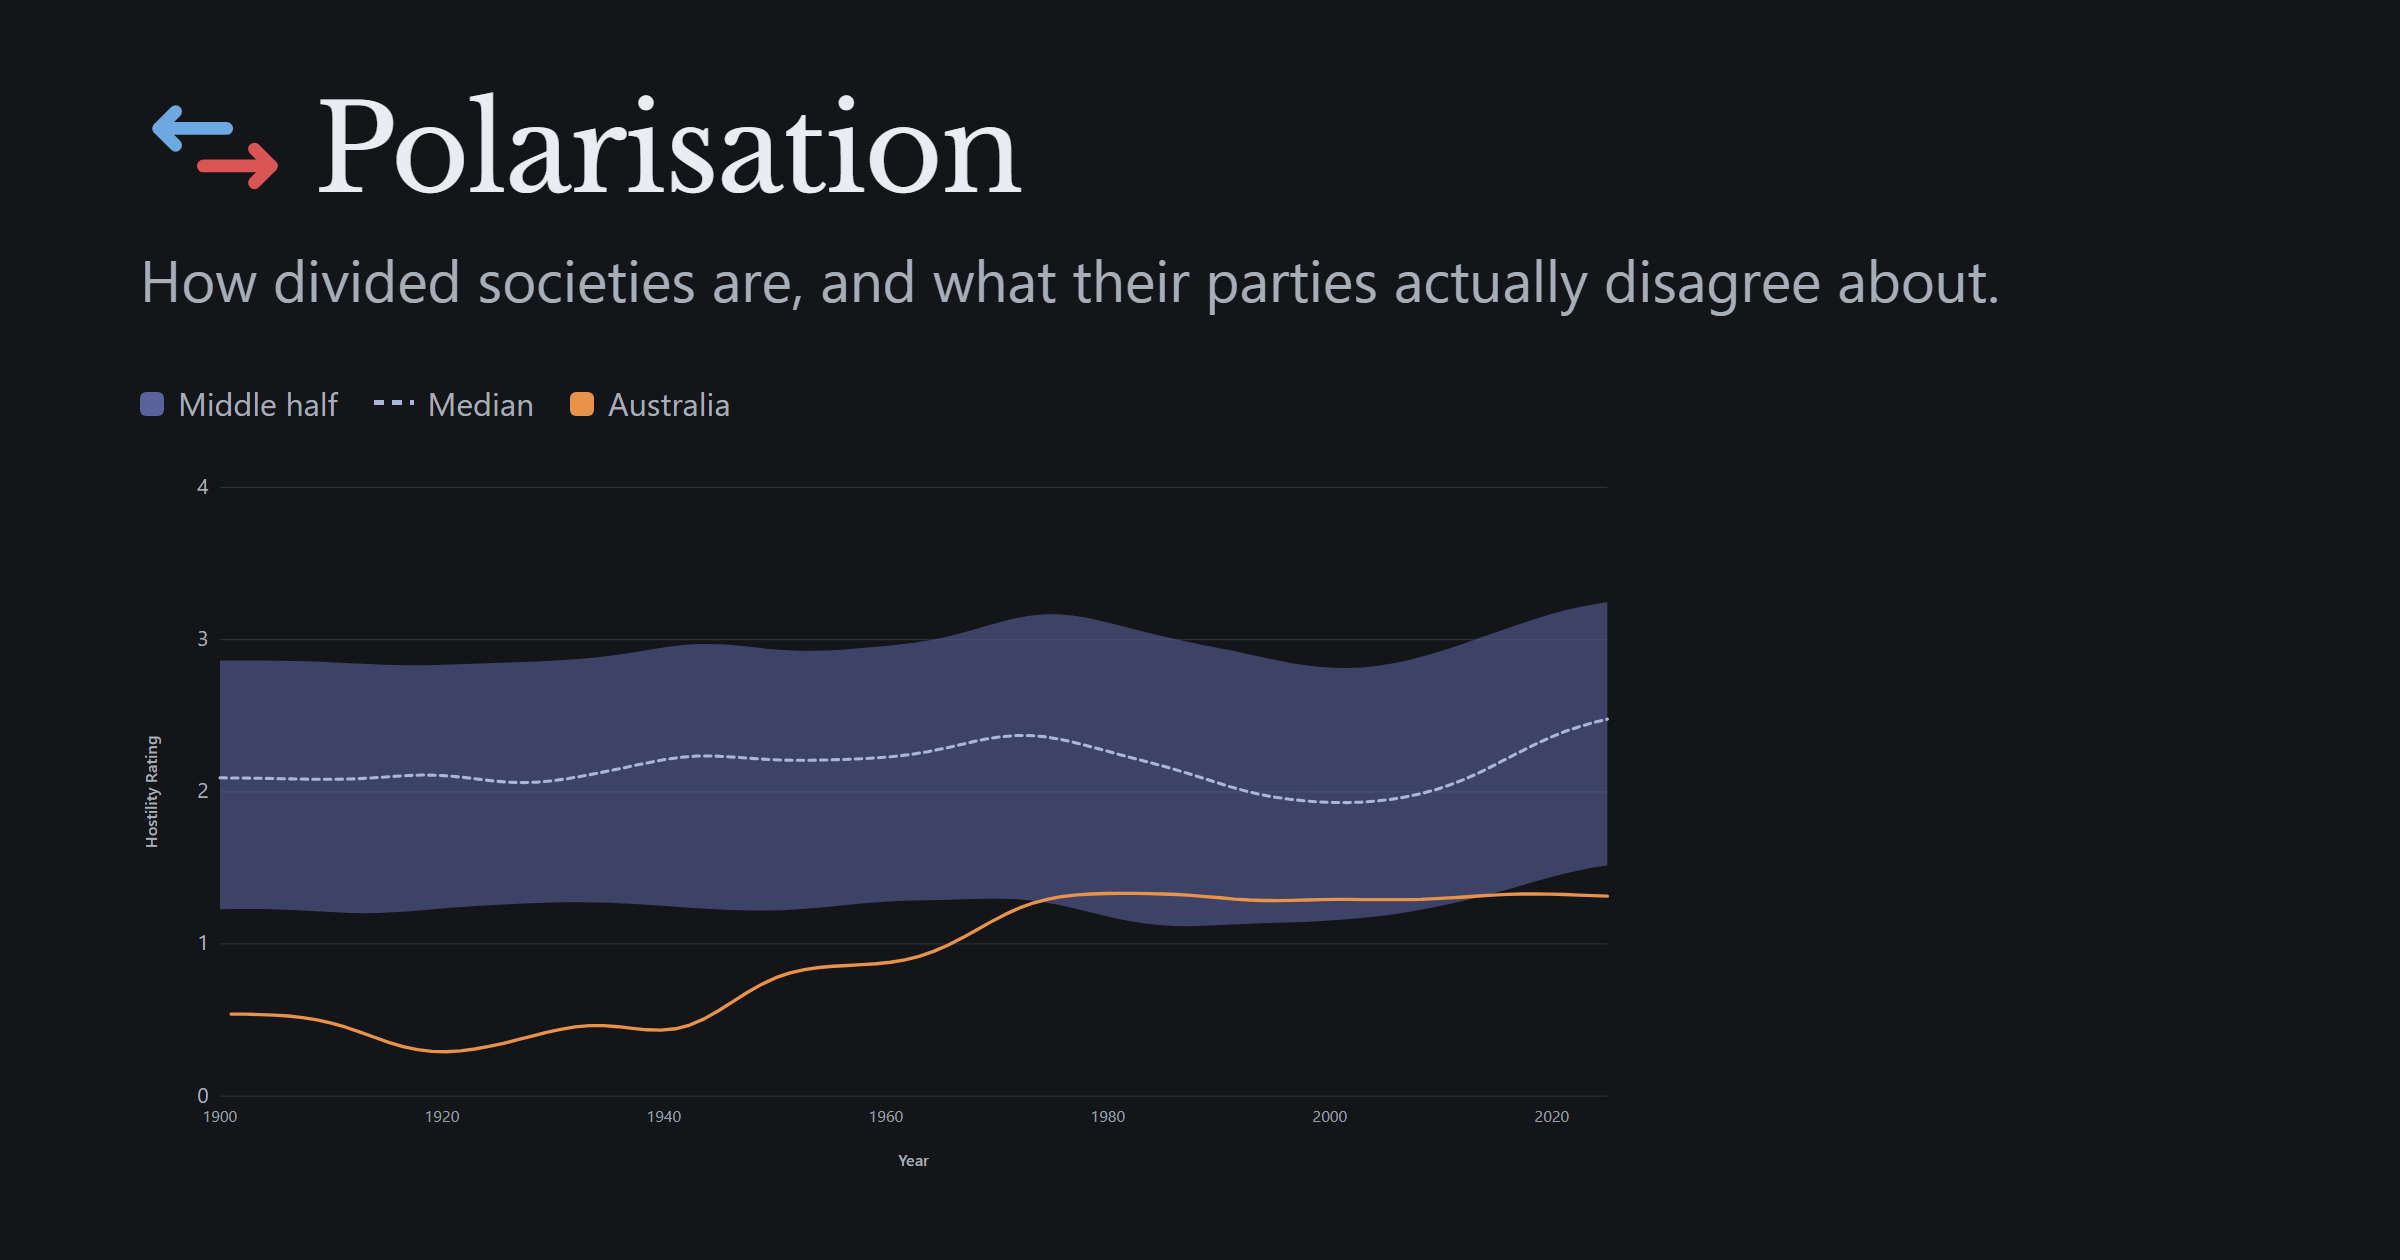
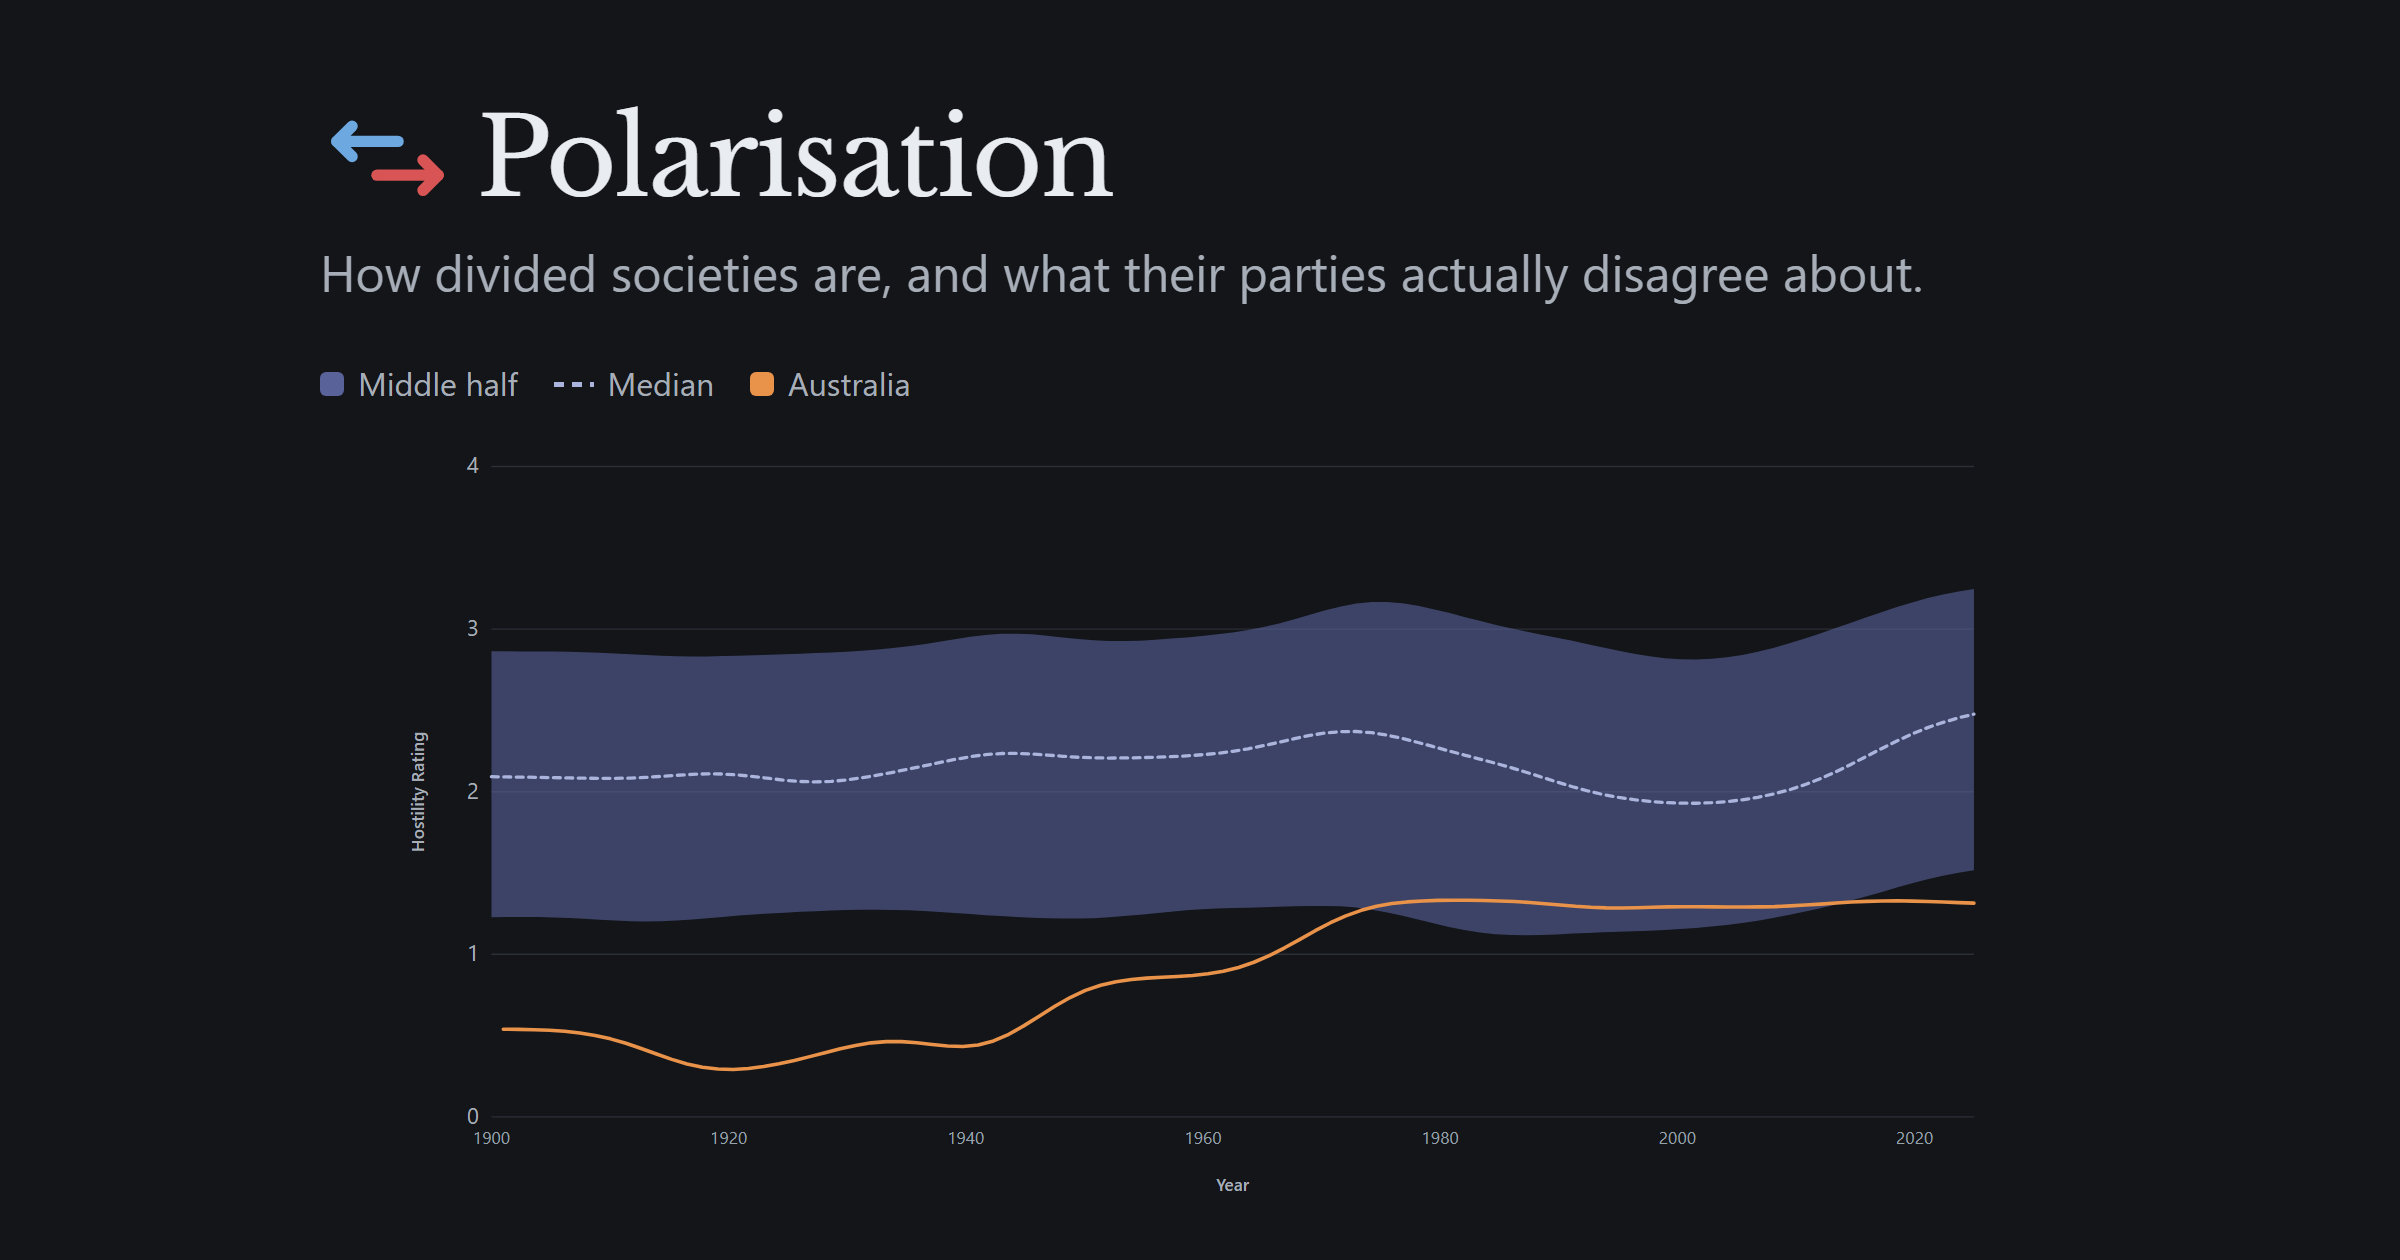
Sweep: the share card survives a crop, and Polarisation is registered
THE CARD. Charlie sent back the unfurl: the description ran past the box and
cut mid-sentence, and the image was clipped at both edges. Both real.

og:description was 175 characters against a rule of about 90, which the other
two pages already follow. It is 93 now, one sentence, and it adds to the title
rather than repeating it.

The image is 1.91:1 and nobody shows it at 1.91:1 - clients crop it to their
own preview box, and the one he sent was about 1.5:1 with roughly a tenth off
each side, clipping the mark at the left and the chart at the right. Content
now lives in a centred safe column 880 of 1200 wide, which survives any crop
down to 1.40:1, and the chart is centred in it rather than left-aligned, since
a gap on one side of a card reads as a crop rather than as margin. Checked by
rendering both cards and cropping them to 1.5:1 and 1:1.

POLARISATION WAS NOT REGISTERED ANYWHERE. It went live carrying no analytics
at all, so every visit since has been uncounted; it is not in the estate head
test, so nothing has ever checked its head against the live page; and it is not
in site-stats, so its traffic files under the wrong name. The gate is lifted
byte-identical from the inequality page rather than retyped, because it is full
of escapes and a hand-copied gate is a gate that silently does not fire. The
other two are in their own repos.

ICONS. Both sub-pages shipped a single SVG icon tag, so Safari and older
[…]

diff --git a/site/polarisation/index.html b/site/polarisation/index.html
@@ -9,7 +9,7 @@
 <meta property="og:type" content="website">
 <meta property="og:site_name" content="Charlie Trenorden">
 <meta property="og:title" content="The world is about as divided as it was in the mid-1970s.">
-<meta property="og:description" content="Expert ratings of whether people who vote differently can still stand each other, 1900 to 2025. A few countries broke away from the pack, and one of them is the United States.">
+<meta property="og:description" content="Expert ratings of whether people who vote differently can still stand each other, since 1900.">
 <meta property="og:url" content="https://charlietrenorden.com/polarisation/">
 <meta property="og:image" content="https://charlietrenorden.com/polarisation/og-card.png">
 <meta property="og:image:width" content="2400">
@@ -20,7 +20,10 @@
 <link href="https://fonts.googleapis.com/css2?family=Libre+Baskerville:wght@400;700&display=swap" rel="stylesheet">
 <link rel="stylesheet" href="style.css">
 <link rel="icon" href="split.svg" type="image/svg+xml">
+<link rel="icon" href="split.ico" sizes="any">
+<link rel="icon" href="split-192.png" type="image/png" sizes="192x192">
 <link rel="apple-touch-icon" href="split-180.png">
+<script>/* Analytics, gated. Two kinds of visitor are not an audience: anyone who has opted out with ?nostats=1, and automation - navigator.webdriver is the one signal true for Playwright, Puppeteer and Selenium alike. Inline and dependency-free on purpose: served from the Worker, a bad deploy there would stop analytics on every site. See site-stats/beacon. */(function(){try{var X="ct.nostats",C="ct_nostats",D=";path=/;domain=.charlietrenorden.com",q=location.search,out=false;if(q.indexOf("nostats=1")>-1){try{localStorage.setItem(X,"1")}catch(e){}document.cookie=C+"=1"+D+";max-age=63072000;samesite=lax";}if(q.indexOf("nostats=0")>-1){try{localStorage.removeItem(X)}catch(e){}document.cookie=C+"="+D+";max-age=0";}try{out=!!localStorage.getItem(X)}catch(e){}if(!out)out=document.cookie.indexOf(C+"=1")>-1;if(out||navigator.webdriver)return;var d=document,s;s=d.createElement("script");s.defer=true;s.src="https://static.cloudflareinsights.com/beacon.min.js";s.setAttribute("data-cf-beacon",'\x7b"token": "32b821209b5441a08df42ccf61c9e6c2"\x7d');d.head.appendChild(s);s=d.createElement("script");s.defer=true;s.src="https://beacon.charlietrenorden.com/b.js";d.head.appendChild(s);}catch(e){}})();</script>
 </head>
 <body class="loading">
 <header class="wrap">

diff --git a/site/inequality/index.html b/site/inequality/index.html
@@ -20,6 +20,8 @@
 <link href="https://fonts.googleapis.com/css2?family=Libre+Baskerville:wght@400;700&display=swap" rel="stylesheet">
 <link rel="stylesheet" href="style.css">
 <link rel="icon" href="coins.svg" type="image/svg+xml">
+<link rel="icon" href="coins.ico" sizes="any">
+<link rel="icon" href="coins-192.png" type="image/png" sizes="192x192">
 
 
 <link rel="apple-touch-icon" href="coins-180.png">

diff --git a/scripts/make_page_icons.py b/scripts/make_page_icons.py
@@ -1,0 +1,90 @@
+"""The raster tab icons for the two sub-pages, from the SVG each already has.
+
+    python scripts/make_page_icons.py
+
+WHY THESE EXIST. Inequality and Polarisation each shipped ONE icon tag, an SVG.
+Firefox and current Chrome take it; Safari and older Chrome do not, and a page
+with no icon they can read falls back to the ORIGIN's `/favicon.ico` - which on
+this domain is the hub's aperture mark. So two Pendulum pages were wearing
+another project's icon in the one browser most likely to be a phone.
+
+TWO TARGETS THAT WANT OPPOSITE ALPHA, which is the whole reason this is a
+script and not a hand export:
+
+- **Tab icons** (`<stem>.ico`, `<stem>-48.png`, `<stem>-192.png`) keep the
+  rounded corners TRANSPARENT, so the tile reads as a tile. Flattened onto
+  white they put four white dots in the corner of every dark tab bar.
+- **apple-touch** (`<stem>-180.png`) is flattened, square and full-bleed in the
+  tile colour, because iOS applies its own mask and paints transparency BLACK.
+  That one is already written by the two mark scripts and is not touched here.
+
+Rasterised with Playwright, like the hub's `tools/make_icons.py`, so this needs
+nothing installed beyond what the card renderer already uses.
+"""
+from __future__ import annotations
+
+import io
+import re
+from pathlib import Path
+
+from PIL import Image
+from playwright.sync_api import sync_playwright
+
+ROOT = Path(__file__).resolve().parents[1]
+
+# page directory -> the stem its existing SVG and apple-touch icon already use
+PAGES = {
+    "site/inequality": "coins",
+    "site/polarisation": "split",
+}
+SIZES = (48, 192)
+
+
+def render(pw, svg: str, size: int) -> Image.Image:
+    """One square of the mark at `size`, on nothing."""
+    b = pw.chromium.launch()
+    try:
+        pg = b.new_page(viewport={"width": size, "height": size},
+                        device_scale_factor=1)
+        pg.set_content(
+            "<style>html,body{margin:0;padding:0;background:transparent}"
+            f"svg{{display:block;width:{size}px;height:{size}px}}</style>{svg}")
+        return Image.open(io.BytesIO(pg.screenshot(omit_background=True)))
+    finally:
+        b.close()
+
+
+def main() -> int:
+    wrote = []
+    with sync_playwright() as pw:
+        for rel, stem in PAGES.items():
+            d = ROOT / rel
+            svg = (d / f"{stem}.svg").read_text(encoding="utf-8")
+            # the ground stays, the CORNERS come off: the rect is what gives the
+            # mark its tile, and rx is what makes the corners transparent
+            assert 'rx="18"' in svg, f"{stem}.svg has no rounded tile to keep"
+            imgs = {n: render(pw, svg, n) for n in SIZES}
+            for n, im in imgs.items():
+                im.save(d / f"{stem}-{n}.png")
+                wrote.append(f"{rel}/{stem}-{n}.png")
+            # .ico carries the small sizes a tab bar actually asks for
+            ico = d / f"{stem}.ico"
+            imgs[192].save(ico, sizes=[(16, 16), (32, 32), (48, 48)])
+            wrote.append(f"{rel}/{stem}.ico")
+
+    for f in wrote:
+        print(f"wrote {f}  {(ROOT / f).stat().st_size:,} bytes")
+
+    # the alpha is the point, so check it rather than trusting it
+    for rel, stem in PAGES.items():
+        im = Image.open(ROOT / rel / f"{stem}-192.png").convert("RGBA")
+        corner = im.getpixel((1, 1))
+        assert corner[3] == 0, f"{stem}-192.png has an opaque corner: {corner}"
+        mid = im.getpixel((96, 96))
+        assert mid[3] == 255, f"{stem}-192.png is transparent in the middle"
+    print("corners transparent, centres opaque")
+    return 0
+
+
+if __name__ == "__main__":
+    raise SystemExit(main())

diff --git a/scripts/make_card.py b/scripts/make_card.py
@@ -45,9 +45,19 @@ PAGES = {
 }
 
 W, H = 1200, 630
-PAD = 70
+# THE CARD IS 1.91:1 AND NOBODY SHOWS IT AT 1.91:1. Chat clients crop it to
+# whatever their own preview box is: the one Charlie sent back was about 1.5:1
+# and had taken roughly a tenth off each side, clipping the mark at the left
+# edge and the chart at the right. So the content lives in a SAFE COLUMN,
+# centred, and the background fills the rest.
+#
+# 880 of 1200. A centre crop to ratio r keeps H*r pixels of width, so 880
+# survives anything down to 1.40:1 - every common preview box, with room. A
+# full 1:1 crop would still bite, and that is the trade against a card whose
+# chart is too small to read at any size.
+SAFE = 880
 # how tall the lifted chart is allowed to be once it is scaled into the card
-CHART_H = 348
+CHART_H = 372
 BG = "#131519"
 
 
@@ -103,30 +113,36 @@ def lift(site: Path, page: dict) -> dict:
 
 def card_html(bits: dict, page: dict) -> str:
     # scale to the tallest the card can take, but never wider than the column
-    width = min(W - PAD * 2, CHART_H / bits["ratio"])
+    width = min(SAFE, CHART_H / bits["ratio"])
     title, legend = page["title"], page["legend"]
     return f"""<!doctype html><meta charset="utf-8">
 <link href="https://fonts.googleapis.com/css2?family=Libre+Baskerville:wght@400&display=block" rel="stylesheet">
 <link rel="stylesheet" href="style.css">
 <style>
   body {{ width:{W}px; height:{H}px; background:{BG}; overflow:hidden;
-          margin:0; padding:44px {PAD}px 0; }}
+          margin:0; padding:0; }}
+  .safe {{ width:{SAFE}px; margin:0 auto; padding-top:52px; }}
   /* the header is the page's own, at the card's scale rather than the page's
      clamp, which is tuned for a browser window and not for a 1200px still */
-  {title} {{ font-size:60px; }}
-  .standfirst {{ font-size:29px; max-width:none; }}
+  {title} {{ font-size:54px; }}
+  .standfirst {{ font-size:25px; max-width:none; line-height:1.4; }}
   {legend} {{ margin-top:26px; font-size:16px; }}
   /* the key keeps its colours and loses its affordances: a picture cannot be
      pressed, so the button chrome and the hover underline are noise on it */
   {legend} .key {{ background:none; border:none; padding:0; }}
   {legend} .explained {{ text-decoration:none; border:0; }}
-  .chart {{ width:{width:.0f}px; margin-top:22px; }}
+  /* CENTRED in the safe column, not left-aligned in it. A chart whose ratio
+     makes it narrower than the column leaves the gap on one side, and on a
+     card that gap reads as a crop rather than as margin. */
+  .chart {{ width:{width:.0f}px; margin:20px auto 0; }}
   .chart svg {{ width:100%; height:auto; display:block; }}
 </style>
+<div class="safe">
 {bits["head"]}
 {bits["sf"]}
 {bits["legend"]}
 <div class="chart">{bits["svg"]}</div>
+</div>
 """
 
 
